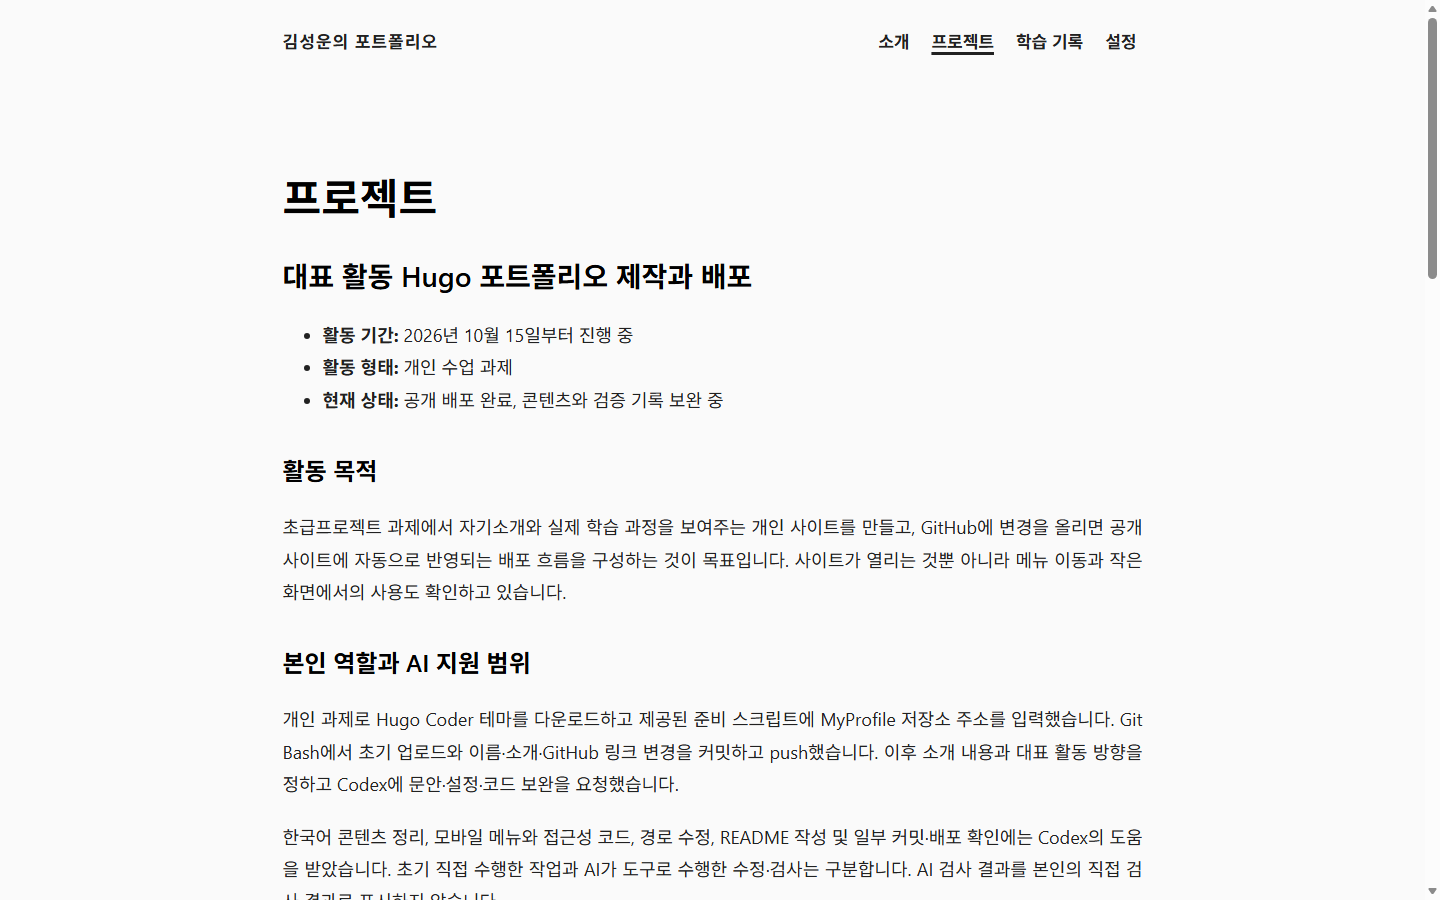
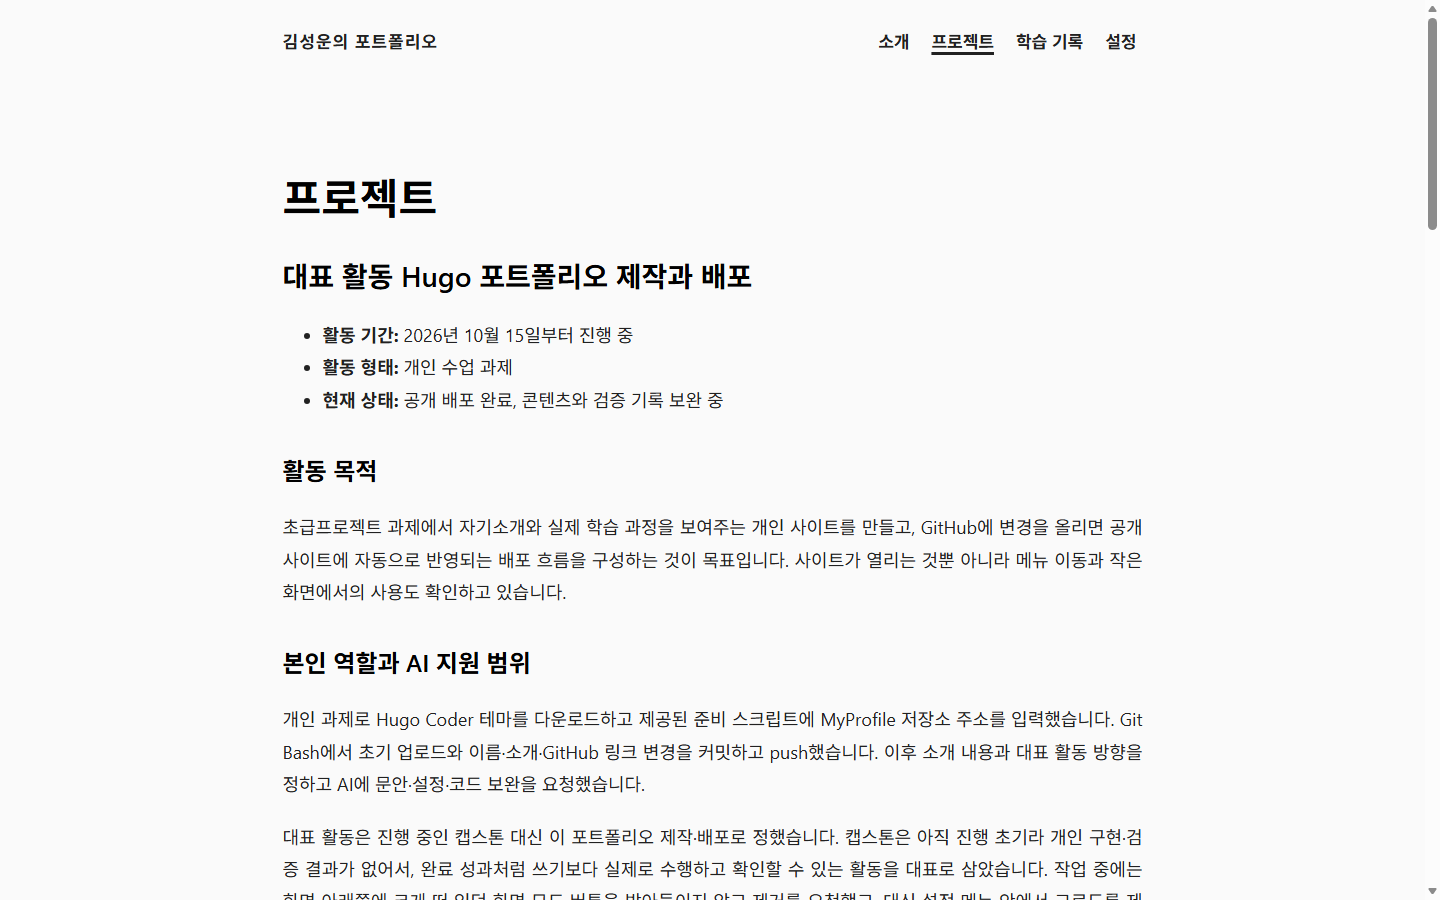
프로젝트 페이지 변경 후 1440·390px 결과 화면을 d01c4c7 배포본으로 재캡처
역할 문단 수정(a565693 등)으로 03:00 캡처 속 본문('Codex에 … 요청')이 공개 화면과 달라져, 보고서 그림이 실제 사이트와 어긋나게 되었다. #27 배포 후 Edge 155 기기 모드로 다시 찍어 두 파일을 교체하고, 시각·측정값·배포 버전(d01c4c7)을 검증 기록에 추가했다.

Changed region(s): [[0.1875, 0.84, 0.8125, 1.0], [0.9688, 0.2489, 1.0, 0.3111]]

diff --git a/verification/2026-10-16.md b/verification/2026-10-16.md
@@ -209,3 +209,12 @@ GitHub REST API의 workflow run·job·check-run annotation·deployment status를
 - 77a759d: 직접 확인 목록에 03:07 화면 폭 검사와 링크·역할 확인, 배포 실패에서 배운 점과 다음 개선 추가(P79)
 
 로컬 Hugo 0.167.0 빌드 경고 0건, check_site.py 문제 0건.
+
+### 결과 화면 재캡처(03:12)
+
+a565693~77a759d로 프로젝트 페이지 역할 문단이 바뀌어 03:00 캡처의 본문이 공개 화면과 달라졌다. #27 배포 후 같은 방법(Edge 155.0.4283.45 기기 모드, 밝은 화면)으로 다시 캡처해 두 파일을 교체했다.
+
+| 그림 | URL·폭·시각 | 캡처 시 측정 |
+| --- | --- | --- |
+| 1 | projects/ · 1440×900 · 2026-10-16 03:12:53 | innerWidth 1440, scrollWidth 1425, 푸터 배포 버전 d01c4c7 |
+| 2 | projects/ · 390×844(모바일 기기 모드) · 2026-10-16 03:12:57 | innerWidth 390, scrollWidth 390, 푸터 배포 버전 d01c4c7 |
